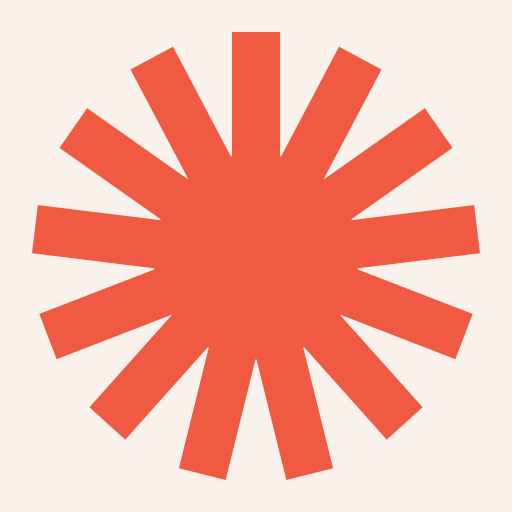
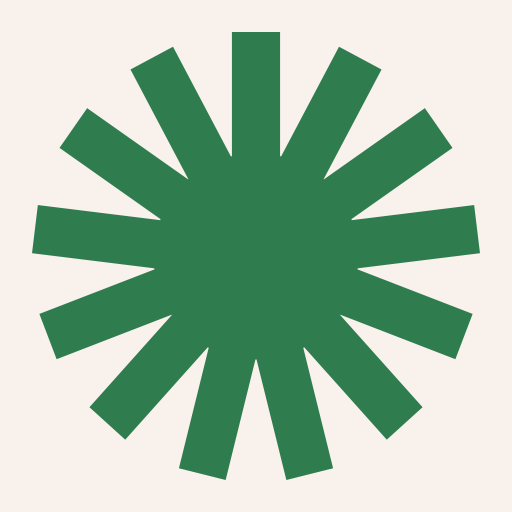
Revert back to old less harsh color scheme

diff --git a/src/styles/base/_root.scss b/src/styles/base/_root.scss
@@ -4,8 +4,11 @@
 
 
 :root {
-    --vu-red-mid: hsl(8, 85%, 60%);
+    --vu-green-mid: hsl(145, 45%, 34%);
+    --vu-green-dark: hsl(173, 11%, 16%);
     
+    --vu-red-mid: hsl(8, 85%, 60%);
+
     --vu-yellow-light:  hsl(36, 100%, 95%);
     --vu-yellow-mid:  hsl(36, 100%, 83%);
     
@@ -31,10 +34,12 @@
 :root[data-theme="light"] {
     color-scheme: light;
 
-    --vu-color-accent: var(--vu-red-mid);
+    --vu-color-accent: var(--vu-green-mid);
 
     --vu-bg-primary: var(--vu-warmgrey-20);
-    --vu-text-primary: var(--vu-violet-dark);
+
+    --vu-text-primary: var(--vu-warmgrey-80);
+    
     --vu-text-accent: var(--vu-color-accent);
 }
 
@@ -43,8 +48,10 @@
 
     --vu-color-accent: var(--vu-yellow-mid);
 
-    --vu-bg-primary: var(--vu-violet-dark);
+    --vu-bg-primary: var(--vu-green-dark);
+
     --vu-text-primary:  var(--vu-yellow-light);
+
     --vu-text-accent: var(--vu-color-accent);
 }
 

diff --git a/index.html b/index.html
@@ -64,12 +64,12 @@
           <div class="c-accent fs-3 callout mb-2">2015&thinsp;&mdash;&thinsp;2016</div>
           <div class="">
             Co-Founder <a class="text-link" title="Website of WilsonFreitag, a studio for design"
-              href="https://www.wilsonfreitag.com">WilsonFreitag – Studio for Design</a><br />
+              href="https://www.wilsonfreitag.com">WilsonFreitag &ndash; Studio for Design</a><br />
             Design, Web Development
           </div>
         </li>
         <li class="mb-4">
-          <div class="c-accent fs-3 callout mb-2">2010&thinsp;&mdash;&thinsp;2015</div>
+          <div class="c-accent fs-3 callout mb-2">2010&thinsp;&mdash;&thinsp;2016</div>
           <div class="">
             Freelance Designer &amp; Web Developer
           </div>

diff --git a/src/styles/components/index.scss b/src/styles/components/index.scss
@@ -4,8 +4,8 @@
 :root[data-theme="light"] {
     .site-header {
         --header-star-shape-fill: var(--vu-color-accent);
-        --header-name-color: var(--vu-violet-dark);
-        --header-job-color: var(--vu-violet-dark);
+        --header-name-color: var(--vu-text-primary);
+        --header-job-color: var(--vu-text-primary);
         --header-toggle-fill: ;
     }
 }
